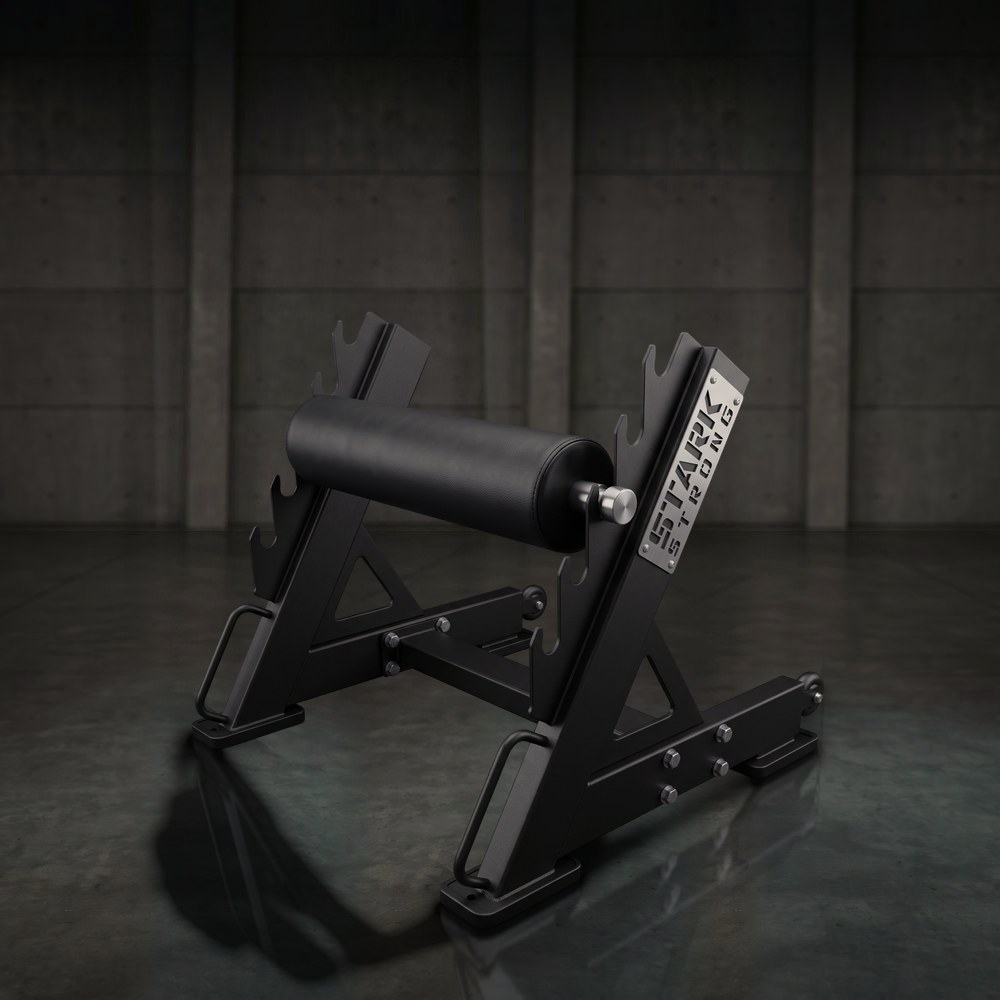
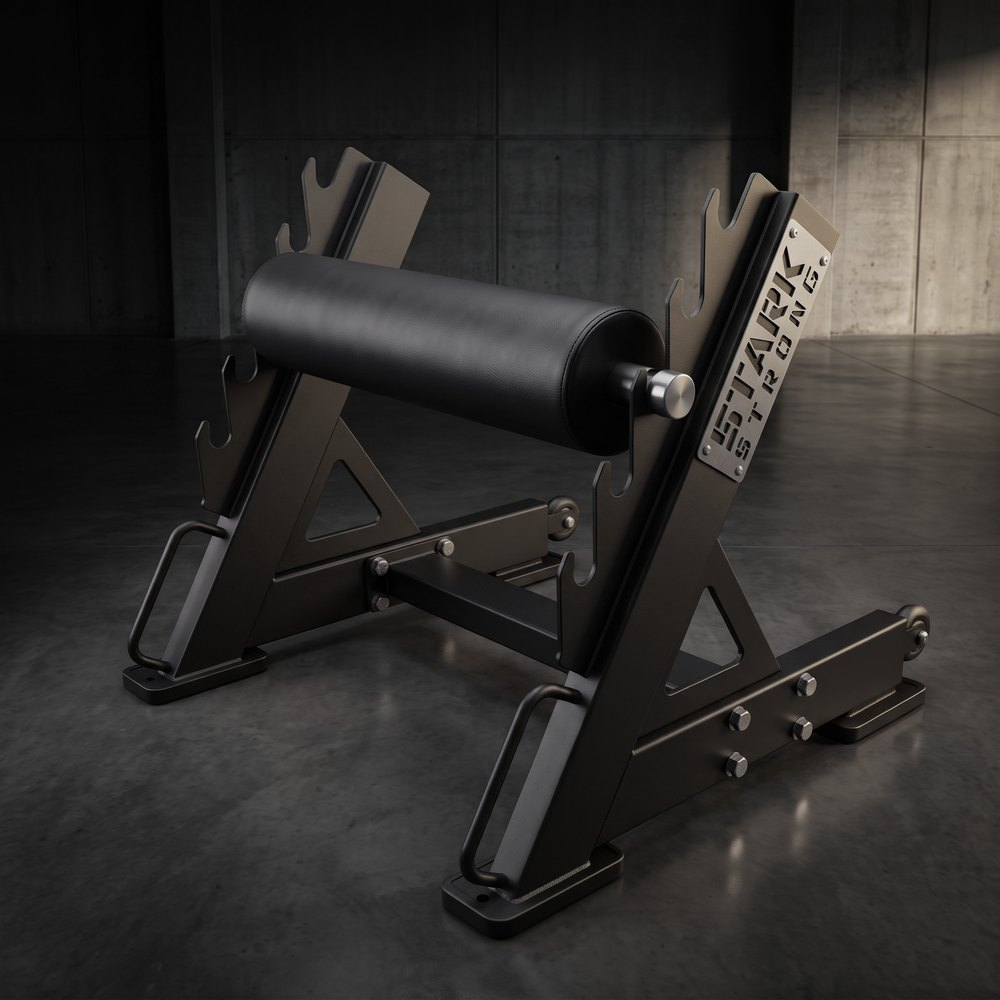
Troca as fotos da Remada cavalinho, Smith e Suporte búlgaro por renders no cenário padrão
Claude-Session: https://claude.ai/code/session_01Qei8Zqq5C2wpKZnHECd2Jn

diff --git a/lps/2026-12-saldao-natal/README.md b/lps/2026-12-saldao-natal/README.md
@@ -40,7 +40,7 @@ Ainda sem GTM, sem captura de UTM e sem eventos de envio do formulário (a Black
 ## Seleção de produtos (27/11/2026)
 - Da Black, saíram todos os equipamentos com bateria de peso (9003, 9091, 9004, 9005, 9039, 9061, 9057, 9227, 9116).
 - Entraram do inventário (proposta Bling nº 7461): 9030 Remada cavalinho (R$ 7.945), 9002 Smith guiado (R$ 19.860), 9062 Suporte búlgaro (R$ 1.890); 9114 Remada sentada articulada passou a R$ 9.950.
-- Total: 13 equipamentos. Fotos em `img/` (as 3 novas recortadas do PDF e montadas no fundo de concreto padrão). Estoque ainda a atualizar.
+- Total: 13 equipamentos. Fotos em `img/` (as 3 novas — 9030, 9002, 9062 — geradas no Nano Banana Pro a partir das fotos do PDF, no cenário padrão de concreto; originais em 2K no Higgsfield). Estoque ainda a atualizar.
 
 ## WhatsApp, rastreamento e esgotados (27/11/2026)
 - Botão "Enviar pelo WhatsApp" abre wa.me/5545999265525 com a seleção, total no PIX e dados do formulário.
